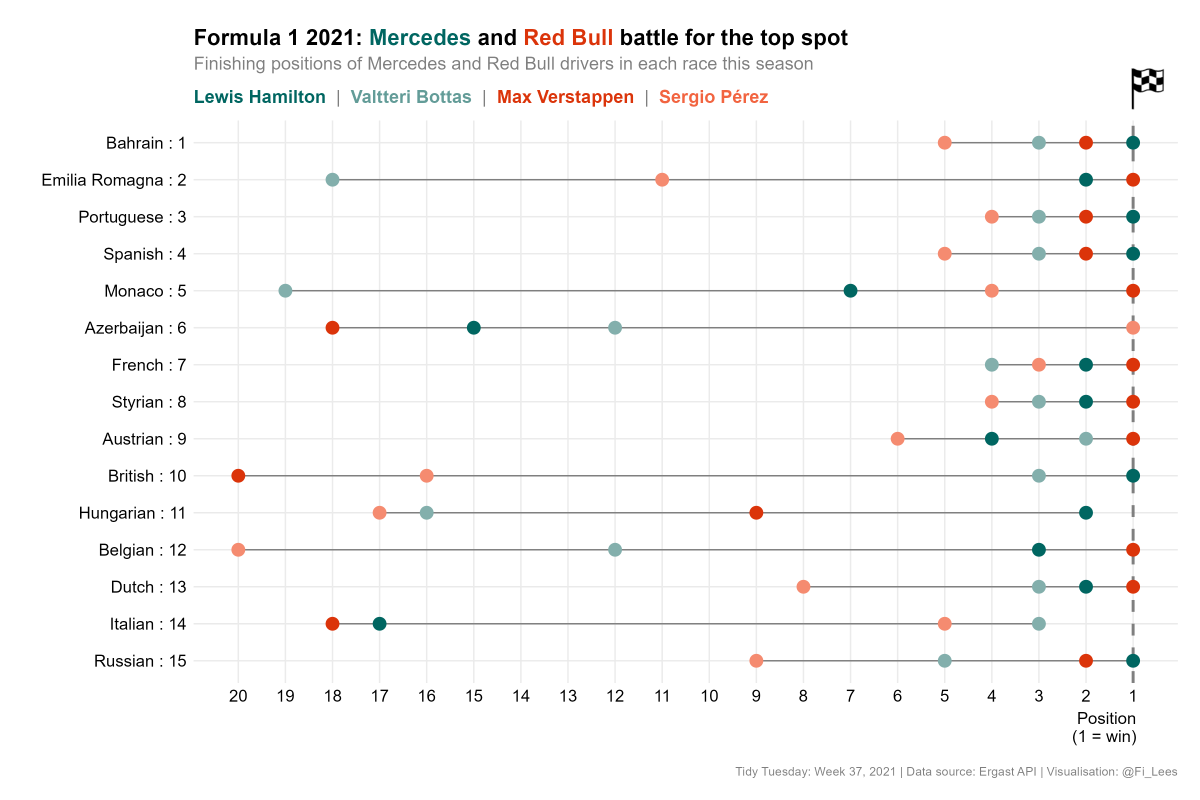
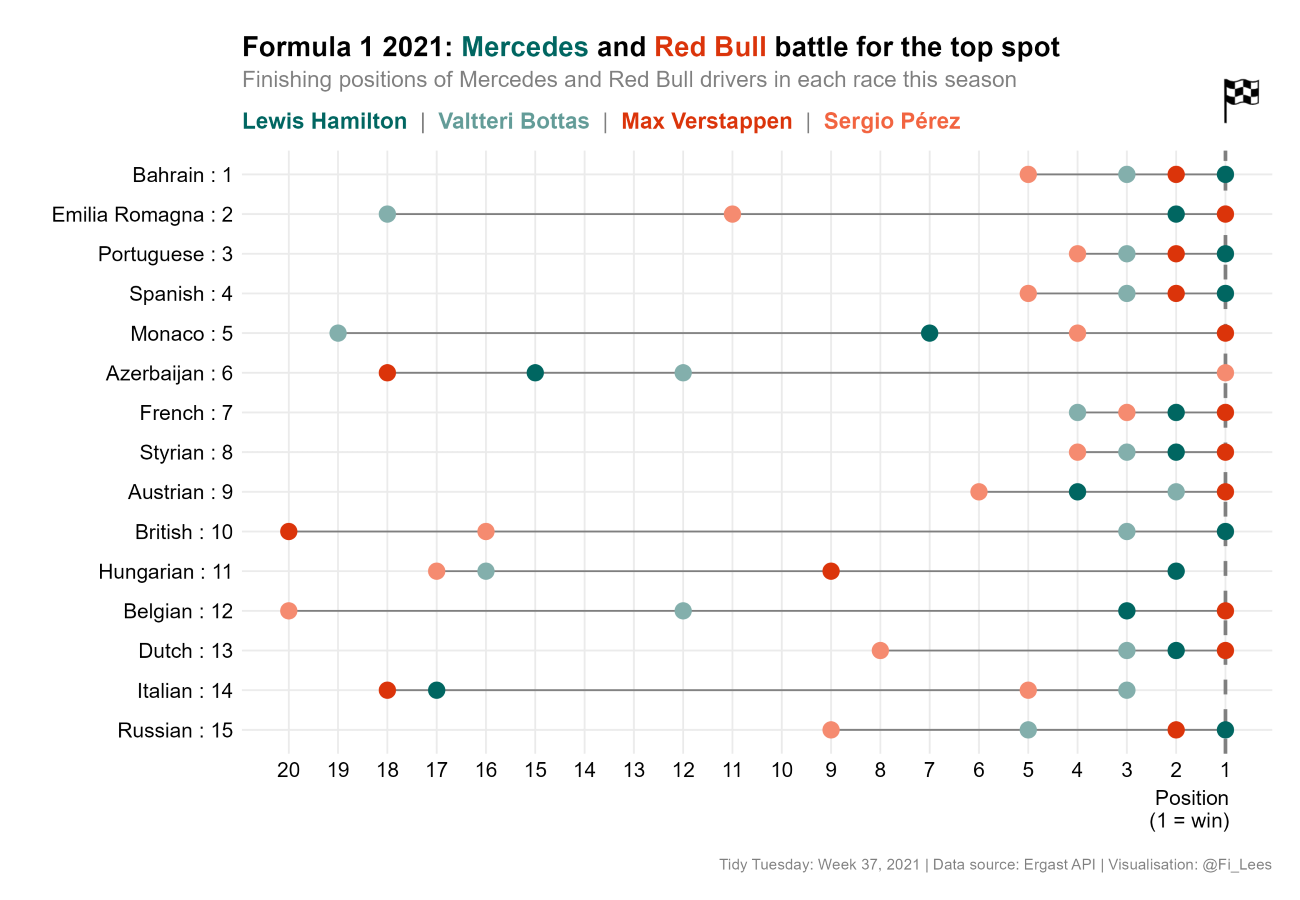
Resizing images

Changed region(s): [[0.0308, 0.1562, 0.9867, 0.9688], [0.1542, 0.0312, 0.8325, 0.1562], [0.925, 0.0938, 0.9867, 0.125]]

diff --git a/TT_2021_W37_Formula_1/README.md b/TT_2021_W37_Formula_1/README.md
@@ -439,7 +439,7 @@ Save this visualisation:
 
 
 ```r
-ggsave("Mercedes_2021.png", Mercedes_2021, width = 12, height = 8, units = "in", dpi = 300)
+ggsave("Mercedes_2021.png", Mercedes_2021, width = 13, height = 9, units = "in", dpi = 300, scale = 0.8)
 ```
 
 
@@ -501,7 +501,7 @@ Save this visualisation:
 
 
 ```r
-ggsave("Mercedes_Redbull_2021.png", Mercedes_Redbull_2021, width = 12, height = 8, units = "in", dpi = 300)
+ggsave("Mercedes_Redbull_2021.png", Mercedes_Redbull_2021, width = 13, height = 9, units = "in", dpi = 300, scale = 0.8)
 ```
 
 
